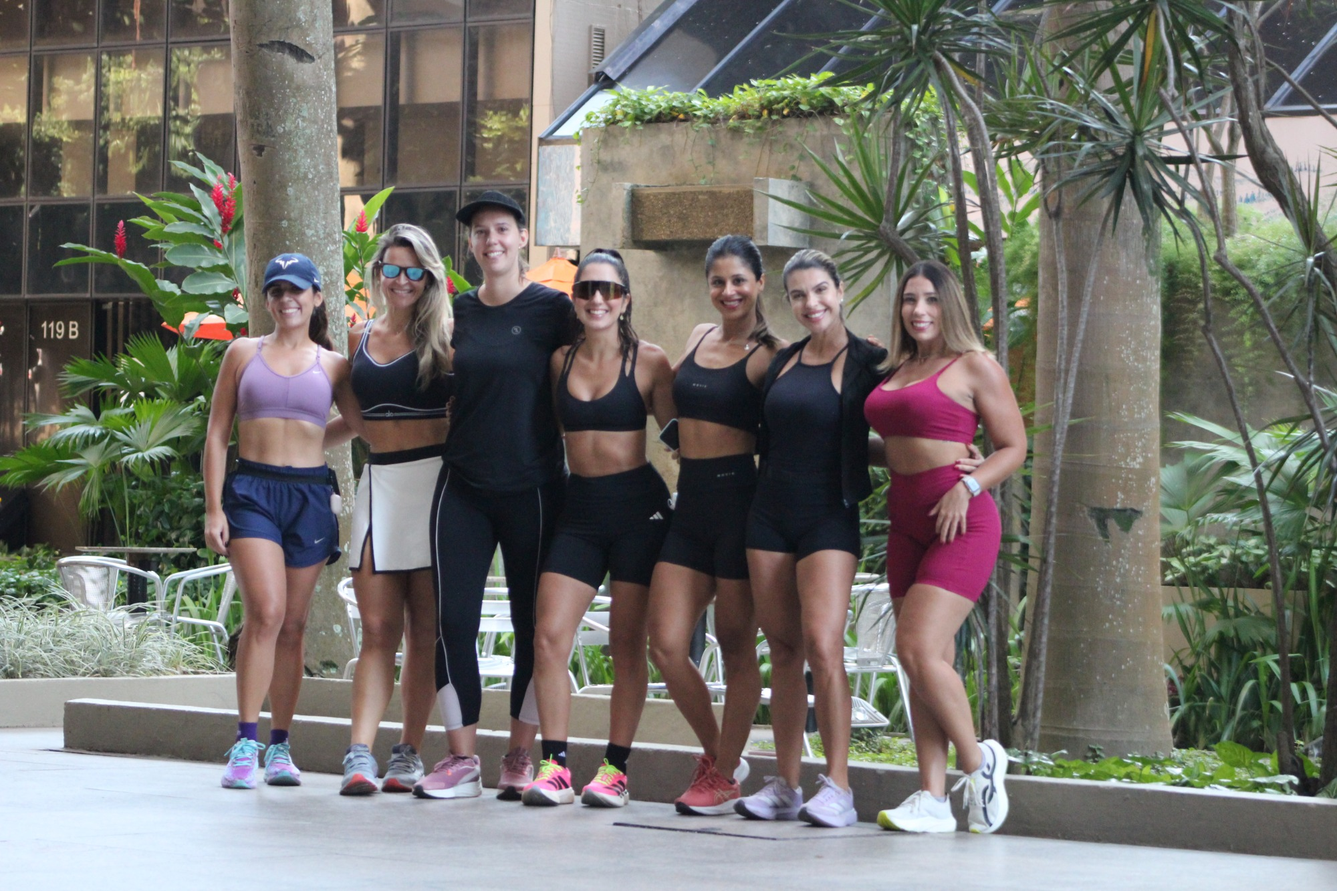
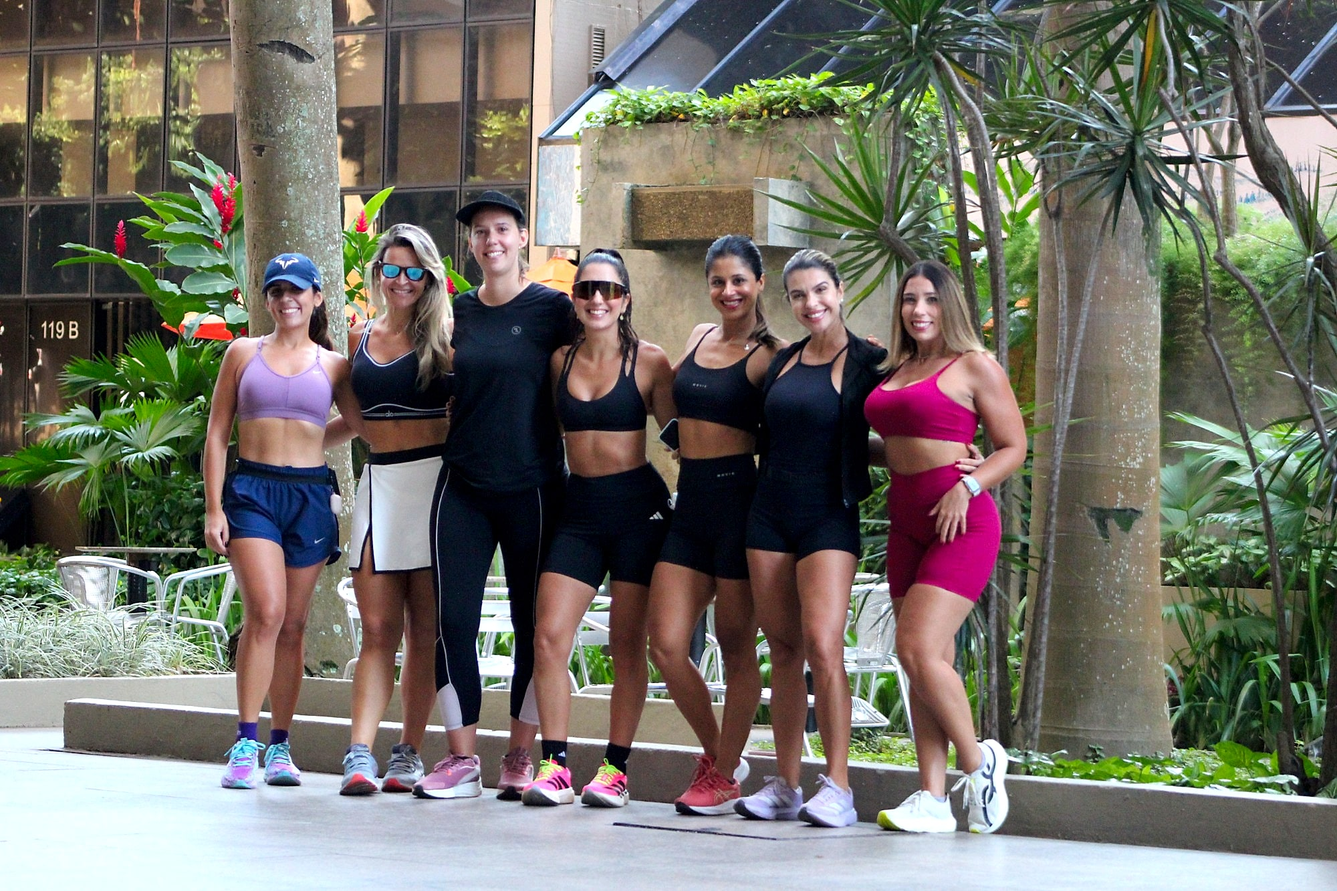
Realça cores e contraste da foto do hero

diff --git a/src/style.css b/src/style.css
@@ -1,4 +1,4 @@
-:root{font-family:'Montserrat',sans-serif;color:#1A1A1A;background:#F6F1E8;font-synthesis:none;text-rendering:optimizeLegibility;-webkit-font-smoothing:antialiased;--ink:#1A1A1A;--cream:#F6F1E8;--sage:#6B7A5E;--gold:#CBA86B;--olive:#6B7A5E;--line:#E6DED1;--serif:'Playfair Display',Georgia,serif}*{box-sizing:border-box}html{scroll-behavior:smooth;scroll-padding-top:90px}body{margin:0}a{color:inherit;text-decoration:none}button,input{font:inherit}.icon{display:block;width:20px;height:20px;flex:0 0 auto}.topbar{height:84px;padding:0 max(calc((100vw - 1240px)/2),6.1vw);display:flex;align-items:center;justify-content:space-between;border-bottom:1px solid #E6DED1;background:rgba(246,241,232,.96);position:sticky;top:0;z-index:5;backdrop-filter:blur(12px)}.brand{display:flex;align-items:center;gap:10px;font-size:21px;font-weight:500;letter-spacing:.14em;text-transform:uppercase}.brand i{font-family:var(--serif);font-weight:500;color:var(--sage)}.brand-mark{width:34px;height:34px;background:var(--sage);color:white;display:grid;place-items:center;border-radius:50%}.brand-mark .icon{width:21px}.desktop-nav{display:flex;gap:37px;font-size:12px;color:#69665f}.desktop-nav a:hover,.login-link:hover{color:var(--sage)}.top-actions{display:flex;align-items:center;gap:24px;font-size:12px}.login-link{color:#6c6962}.button{display:inline-flex;align-items:center;justify-content:center;gap:20px;border:0;padding:15px 21px;font-size:12px;font-weight:600;transition:transform .2s,background .2s;cursor:pointer}.button:hover{transform:translateY(-2px)}.button .icon{width:16px}.button-dark{background:var(--ink);color:white}.button-dark:hover{background:#454238}.button-small{padding:12px 15px;gap:12px}.menu-toggle{display:none;border:0;background:transparent}.hero{max-width:1240px;margin:auto;padding:64px 0 82px;display:grid;grid-template-columns:1fr 1fr;gap:5%;align-items:center;position:relative;min-height:600px}.hero-copy{padding-left:2px}.eyebrow,.section-kicker{font-size:9px;font-weight:700;letter-spacing:1.8px;color:#716e63;display:flex;align-items:center;gap:9px}.eyebrow-dot,.note-dot{width:7px;height:7px;border-radius:50%;background:var(--sage)}h1,h2,h3,p{margin-top:0}h1,h2,blockquote{font-family:var(--serif);font-weight:500;letter-spacing:-1.6px}h1{font-size:clamp(46px,4.8vw,60px);line-height:1.04;margin:26px 0 21px}h1 em,h2 em,blockquote em{font-weight:500;color:var(--sage)}.hero-lead{max-width:460px;color:#6a675f;font-size:17px;line-height:1.65;margin-bottom:25px}.hero-ctas{display:flex;gap:23px;align-items:center}.button-gold{color:var(--ink);background:var(--gold)}.button-gold:hover{background:#B8965A}.text-link{font-size:11px;color:#68645b}.text-link span{margin-left:8px;color:var(--sage)}.social-proof{margin-top:45px;display:flex;align-items:center;font-size:10px;gap:11px}.avatar-stack{display:flex;padding-left:2px}.avatar-stack span{width:27px;height:27px;border-radius:50%;border:2px solid var(--cream);margin-left:-5px;display:grid;place-items:center;color:#fff;background:#6B7A5E;font-size:9px}.avatar-stack span:nth-child(2){background:#6B7A5E}.avatar-stack span:nth-child(3){background:#CBA86B}.avatar-stack span:nth-child(4){background:#6E6A62}.social-proof strong,.social-proof small{display:block}.social-proof strong{font-size:10px}.social-proof small{font-size:9px;color:#8b877d;margin-top:3px}.proof-stars{color:#CBA86B;font-size:10px;letter-spacing:2px;margin-left:9px}.hero-visual{height:450px;position:relative}.hero-photo{position:absolute;inset:0 12px 12px 0;background:#d0c4b0 url('/images/eleva-hero-comunidade.jpg') center 42%/cover;clip-path:polygon(8% 0,100% 0,100% 85%,89% 100%,0 100%,0 12%);filter:saturate(.7)}.hero-visual:after{content:'';position:absolute;z-index:-1;inset:17px -1px -1px 16px;border:1px solid #d9d3c5;clip-path:polygon(8% 0,100% 0,100% 85%,89% 100%,0 100%,0 12%)}.photo-label{position:absolute;bottom:27px;left:-34px;background:var(--cream);padding:14px 18px;display:flex;align-items:center;gap:12px;box-shadow:0 8px 30px #30302412}.label-icon{width:34px;height:34px;display:grid;place-items:center;background:#E9E4D7;color:var(--sage);border-radius:50%}.label-icon .icon{width:17px}.photo-label strong,.photo-label small{display:block}.photo-label strong{font-family:var(--serif);font-size:13px;font-weight:600}.photo-label small{font-size:9px;color:#898579;margin-top:3px}.photo-note{position:absolute;right:-13px;top:24px;background:#F6F1E8;padding:10px 14px;display:flex;gap:8px;align-items:center;font-size:8px;letter-spacing:1px}.photo-note .note-dot{width:6px;height:6px}.hero-scribble{position:absolute;right:-31px;bottom:35px;color:var(--sage);font-size:39px}.hero-index{position:absolute;bottom:36px;left:2px;display:flex;align-items:center;gap:11px;font-size:9px;color:#8e8a80}.hero-index span:first-child{color:var(--sage);font-weight:700}.index-line{height:1px;width:58px;background:#d7d2c6}.ticker{min-height:58px;padding:12px 6%;background:var(--olive);color:white;display:flex;align-items:center;justify-content:center}.ticker-track{display:flex;align-items:center;justify-content:center;flex-wrap:wrap;column-gap:clamp(18px,4vw,48px);row-gap:10px;width:100%}.ticker-track span{font-size:9px;letter-spacing:1.5px;font-weight:600;display:flex;gap:clamp(18px,4vw,48px);align-items:center}.ticker-track b{font-size:13px;color:#CBA86B}.section{max-width:1120px;margin:auto;padding:105px 0}.intro{padding-bottom:92px}.section-kicker{color:var(--olive)}.section-kicker .icon{width:14px;height:14px;color:var(--sage)}.intro-grid{display:grid;grid-template-columns:1fr .7fr;gap:7%;align-items:end;margin-top:25px}.intro h2,.section-heading h2,.benefit-intro h2{font-size:clamp(37px,4.4vw,55px);line-height:1.12;margin:0}.intro-text{padding-bottom:5px}.intro-text p,.benefit-intro>p{font-size:12px;color:#747067;line-height:1.9;margin-bottom:15px}.underlined-link{font-size:10px;font-weight:600;border-bottom:1px solid #CBA86B;padding-bottom:8px;display:inline-flex;align-items:center;gap:16px}.underlined-link .icon{width:15px;color:var(--sage)}.values-row{display:grid;grid-template-columns:repeat(3,1fr);margin-top:60px;border-top:1px solid var(--line);border-bottom:1px solid var(--line)}.value{padding:23px 25px 20px 0;display:flex;gap:18px;border-right:1px solid var(--line)}.value:not(:first-child){padding-left:25px}.value:last-child{border:0}.value-number{font-family:var(--serif);font-size:12px;color:var(--sage);padding-top:3px}.value h3{font-family:var(--serif);font-size:17px;font-weight:600;margin:0 0 7px}.value p{color:#848076;font-size:10px;line-height:1.6;margin:0;max-width:210px}.experiences{padding-top:62px;padding-bottom:112px}.section-heading{display:flex;align-items:end;justify-content:space-between;margin-bottom:33px}.section-heading h2{font-size:43px;margin-top:15px}.desktop-only{margin-bottom:8px}.experience-grid{display:grid;grid-template-columns:1.17fr 1fr .85fr;gap:22px;align-items:start}.experience-card:nth-child(2){margin-top:44px}.experience-card:nth-child(3){margin-top:88px}.experience-image{height:270px;position:relative;overflow:hidden;background-size:cover;background-position:center}.experience-image:after{content:'';position:absolute;inset:0;background:linear-gradient(180deg,#14140b33,transparent 30%,transparent 75%,#15150e28)}.image-tag,.image-number{position:absolute;z-index:1;color:white;font-size:8px;letter-spacing:1.1px}.image-tag{top:17px;left:17px}.image-number{right:17px;bottom:16px;font-family:var(--serif);font-size:16px}.experience-info{display:flex;align-items:center;justify-content:space-between;padding:16px 0 0}.experience-info h3{font-family:var(--serif);font-size:18px;font-weight:600;margin-bottom:5px}.experience-info p{font-size:9px;color:#7c786f;margin:0}.experience-info>.icon{width:17px;color:var(--sage);margin-left:10px}.mobile-only{display:none}.join-banner{min-height:390px;background:var(--olive);color:white;padding:68px max(calc((100vw - 1120px)/2),8vw);display:flex;align-items:center;justify-content:space-between;position:relative;overflow:hidden}.join-banner:before,.join-banner:after{content:'';position:absolute;border:1px solid #ffffff1c;border-radius:50%;width:440px;height:440px;left:-255px;top:-250px}.join-banner:after{width:590px;height:590px;left:-330px;top:-325px}.banner-shape{position:absolute;left:6%;bottom:-75px;color:#ffffff0e;font-size:330px}.banner-content,.banner-aside{position:relative;z-index:1}.light-kicker{color:#e0dfd1}.light-kicker .icon{color:#CBA86B}.banner-content h2{font-size:54px;line-height:1.07;margin:19px 0 13px}.banner-content h2 em{color:#CBA86B}.banner-content>p{font-size:11px;color:#e6e4d9;margin-bottom:22px}.button-light{background:#F6F1E8;color:#29281f}.banner-content>small{display:block;font-size:8px;color:#e2e1d8;margin-top:12px}.banner-aside{display:flex;flex-direction:column;gap:22px;padding-right:5%}.banner-stat strong{font-family:var(--serif);font-size:43px;font-weight:500;line-height:1}.banner-stat strong span{font-size:24px;color:#CBA86B}.banner-stat p{font-size:9px;line-height:1.7;color:#e1e0d6;margin:7px 0 0}.banner-divider{width:38px;height:1px;background:#ffffff5c}.benefits{padding-top:108px;padding-bottom:108px;display:grid;grid-template-columns:.8fr 1fr;gap:13%;align-items:start}.benefit-intro h2{font-size:46px;margin:20px 0 15px}.benefit-intro>p{max-width:285px;margin-bottom:20px}.benefit-list{border-top:1px solid var(--line)}.benefit-item{display:grid;grid-template-columns:42px 1fr 18px;gap:16px;align-items:center;padding:17px 0;border-bottom:1px solid var(--line)}.benefit-icon{width:37px;height:37px;background:#E9E4D7;color:var(--olive);display:grid;place-items:center;border-radius:50%}.benefit-icon .icon{width:18px;height:18px}.benefit-item h3{font-family:var(--serif);font-size:15px;font-weight:600;margin:0 0 4px}.benefit-item p{font-size:9px;color:#817d74;margin:0}.benefit-item> .icon{width:14px;color:#b5b0a4;transition:transform .2s}.benefit-item:hover>.icon{transform:translateX(3px);color:var(--sage)}.closing-quote{background:#F6F1E8;padding:72px 20px 67px;text-align:center;position:relative;overflow:hidden}.quote-mark{font-family:var(--serif);font-size:67px;height:45px;color:var(--sage);line-height:1}.closing-quote blockquote{font-size:37px;line-height:1.2;margin:7px 0 20px}.quote-byline{font-size:8px;letter-spacing:1.6px;color:#817d70;display:flex;align-items:center;justify-content:center;gap:10px}.quote-line{width:28px;height:1px;background:var(--sage)}.quote-flower{position:absolute;right:13%;bottom:-41px;color:#e0dbcf;font-size:150px}.footer{min-height:94px;padding:20px max(calc((100vw - 1120px)/2),6vw);display:flex;align-items:center;justify-content:space-between;color:#868176}.footer-brand{font-size:17px;color:var(--ink)}.footer-brand .brand-mark{width:29px;height:29px}.footer-brand .brand-mark .icon{width:18px}.footer>span{font-size:9px}.footer>span b{color:var(--sage)}.instagram{display:flex;align-items:center;gap:7px;font-size:9px}.instagram .icon{width:15px}.footer>small{font-size:8px}.modal-backdrop{position:fixed;inset:0;background:#24231f9c;z-index:20;display:grid;place-items:center;padding:20px;opacity:0;visibility:hidden;transition:opacity .25s,visibility .25s}.modal-backdrop.is-open{opacity:1;visibility:visible}.join-modal{width:min(100%,490px);background:var(--cream);padding:47px 48px 43px;position:relative;transform:translateY(15px);transition:transform .25s}.is-open .join-modal{transform:translateY(0)}.modal-close{position:absolute;right:18px;top:18px;border:0;background:transparent;color:#777267;cursor:pointer}.modal-close .icon{width:18px}.modal-flower{position:absolute;right:42px;top:54px;color:#e9e4d7;font-size:46px}.join-modal h2{font-family:var(--serif);font-size:37px;line-height:1.1;font-weight:500;margin:19px 0 12px;max-width:360px}.join-modal h2 em{color:var(--sage)}.join-modal>p{font-size:11px;color:#79756c;line-height:1.7;max-width:350px;margin-bottom:27px}.join-form label{font-size:10px;font-weight:600;display:block;margin-bottom:8px}.input-row{display:flex}.input-row input{min-width:0;flex:1;border:1px solid #dcd8ce;background:#fffefa;padding:13px 12px;font-size:11px;outline-color:var(--sage)}.input-row .button{gap:9px;padding:12px;font-size:10px}.join-form>small{display:block;margin-top:10px;font-size:9px;color:#99948a}.toast{position:fixed;z-index:30;bottom:25px;left:50%;transform:translate(-50%,20px);background:var(--ink);color:white;padding:15px 22px;font-size:12px;box-shadow:0 8px 28px #0002;opacity:0;transition:.3s;pointer-events:none}.toast.visible{opacity:1;transform:translate(-50%,0)}.modal-open{overflow:hidden}
+:root{font-family:'Montserrat',sans-serif;color:#1A1A1A;background:#F6F1E8;font-synthesis:none;text-rendering:optimizeLegibility;-webkit-font-smoothing:antialiased;--ink:#1A1A1A;--cream:#F6F1E8;--sage:#6B7A5E;--gold:#CBA86B;--olive:#6B7A5E;--line:#E6DED1;--serif:'Playfair Display',Georgia,serif}*{box-sizing:border-box}html{scroll-behavior:smooth;scroll-padding-top:90px}body{margin:0}a{color:inherit;text-decoration:none}button,input{font:inherit}.icon{display:block;width:20px;height:20px;flex:0 0 auto}.topbar{height:84px;padding:0 max(calc((100vw - 1240px)/2),6.1vw);display:flex;align-items:center;justify-content:space-between;border-bottom:1px solid #E6DED1;background:rgba(246,241,232,.96);position:sticky;top:0;z-index:5;backdrop-filter:blur(12px)}.brand{display:flex;align-items:center;gap:10px;font-size:21px;font-weight:500;letter-spacing:.14em;text-transform:uppercase}.brand i{font-family:var(--serif);font-weight:500;color:var(--sage)}.brand-mark{width:34px;height:34px;background:var(--sage);color:white;display:grid;place-items:center;border-radius:50%}.brand-mark .icon{width:21px}.desktop-nav{display:flex;gap:37px;font-size:12px;color:#69665f}.desktop-nav a:hover,.login-link:hover{color:var(--sage)}.top-actions{display:flex;align-items:center;gap:24px;font-size:12px}.login-link{color:#6c6962}.button{display:inline-flex;align-items:center;justify-content:center;gap:20px;border:0;padding:15px 21px;font-size:12px;font-weight:600;transition:transform .2s,background .2s;cursor:pointer}.button:hover{transform:translateY(-2px)}.button .icon{width:16px}.button-dark{background:var(--ink);color:white}.button-dark:hover{background:#454238}.button-small{padding:12px 15px;gap:12px}.menu-toggle{display:none;border:0;background:transparent}.hero{max-width:1240px;margin:auto;padding:64px 0 82px;display:grid;grid-template-columns:1fr 1fr;gap:5%;align-items:center;position:relative;min-height:600px}.hero-copy{padding-left:2px}.eyebrow,.section-kicker{font-size:9px;font-weight:700;letter-spacing:1.8px;color:#716e63;display:flex;align-items:center;gap:9px}.eyebrow-dot,.note-dot{width:7px;height:7px;border-radius:50%;background:var(--sage)}h1,h2,h3,p{margin-top:0}h1,h2,blockquote{font-family:var(--serif);font-weight:500;letter-spacing:-1.6px}h1{font-size:clamp(46px,4.8vw,60px);line-height:1.04;margin:26px 0 21px}h1 em,h2 em,blockquote em{font-weight:500;color:var(--sage)}.hero-lead{max-width:460px;color:#6a675f;font-size:17px;line-height:1.65;margin-bottom:25px}.hero-ctas{display:flex;gap:23px;align-items:center}.button-gold{color:var(--ink);background:var(--gold)}.button-gold:hover{background:#B8965A}.text-link{font-size:11px;color:#68645b}.text-link span{margin-left:8px;color:var(--sage)}.social-proof{margin-top:45px;display:flex;align-items:center;font-size:10px;gap:11px}.avatar-stack{display:flex;padding-left:2px}.avatar-stack span{width:27px;height:27px;border-radius:50%;border:2px solid var(--cream);margin-left:-5px;display:grid;place-items:center;color:#fff;background:#6B7A5E;font-size:9px}.avatar-stack span:nth-child(2){background:#6B7A5E}.avatar-stack span:nth-child(3){background:#CBA86B}.avatar-stack span:nth-child(4){background:#6E6A62}.social-proof strong,.social-proof small{display:block}.social-proof strong{font-size:10px}.social-proof small{font-size:9px;color:#8b877d;margin-top:3px}.proof-stars{color:#CBA86B;font-size:10px;letter-spacing:2px;margin-left:9px}.hero-visual{height:450px;position:relative}.hero-photo{position:absolute;inset:0 12px 12px 0;background:#d0c4b0 url('/images/eleva-hero-comunidade.jpg') center 42%/cover;clip-path:polygon(8% 0,100% 0,100% 85%,89% 100%,0 100%,0 12%)}.hero-visual:after{content:'';position:absolute;z-index:-1;inset:17px -1px -1px 16px;border:1px solid #d9d3c5;clip-path:polygon(8% 0,100% 0,100% 85%,89% 100%,0 100%,0 12%)}.photo-label{position:absolute;bottom:27px;left:-34px;background:var(--cream);padding:14px 18px;display:flex;align-items:center;gap:12px;box-shadow:0 8px 30px #30302412}.label-icon{width:34px;height:34px;display:grid;place-items:center;background:#E9E4D7;color:var(--sage);border-radius:50%}.label-icon .icon{width:17px}.photo-label strong,.photo-label small{display:block}.photo-label strong{font-family:var(--serif);font-size:13px;font-weight:600}.photo-label small{font-size:9px;color:#898579;margin-top:3px}.photo-note{position:absolute;right:-13px;top:24px;background:#F6F1E8;padding:10px 14px;display:flex;gap:8px;align-items:center;font-size:8px;letter-spacing:1px}.photo-note .note-dot{width:6px;height:6px}.hero-scribble{position:absolute;right:-31px;bottom:35px;color:var(--sage);font-size:39px}.hero-index{position:absolute;bottom:36px;left:2px;display:flex;align-items:center;gap:11px;font-size:9px;color:#8e8a80}.hero-index span:first-child{color:var(--sage);font-weight:700}.index-line{height:1px;width:58px;background:#d7d2c6}.ticker{min-height:58px;padding:12px 6%;background:var(--olive);color:white;display:flex;align-items:center;justify-content:center}.ticker-track{display:flex;align-items:center;justify-content:center;flex-wrap:wrap;column-gap:clamp(18px,4vw,48px);row-gap:10px;width:100%}.ticker-track span{font-size:9px;letter-spacing:1.5px;font-weight:600;display:flex;gap:clamp(18px,4vw,48px);align-items:center}.ticker-track b{font-size:13px;color:#CBA86B}.section{max-width:1120px;margin:auto;padding:105px 0}.intro{padding-bottom:92px}.section-kicker{color:var(--olive)}.section-kicker .icon{width:14px;height:14px;color:var(--sage)}.intro-grid{display:grid;grid-template-columns:1fr .7fr;gap:7%;align-items:end;margin-top:25px}.intro h2,.section-heading h2,.benefit-intro h2{font-size:clamp(37px,4.4vw,55px);line-height:1.12;margin:0}.intro-text{padding-bottom:5px}.intro-text p,.benefit-intro>p{font-size:12px;color:#747067;line-height:1.9;margin-bottom:15px}.underlined-link{font-size:10px;font-weight:600;border-bottom:1px solid #CBA86B;padding-bottom:8px;display:inline-flex;align-items:center;gap:16px}.underlined-link .icon{width:15px;color:var(--sage)}.values-row{display:grid;grid-template-columns:repeat(3,1fr);margin-top:60px;border-top:1px solid var(--line);border-bottom:1px solid var(--line)}.value{padding:23px 25px 20px 0;display:flex;gap:18px;border-right:1px solid var(--line)}.value:not(:first-child){padding-left:25px}.value:last-child{border:0}.value-number{font-family:var(--serif);font-size:12px;color:var(--sage);padding-top:3px}.value h3{font-family:var(--serif);font-size:17px;font-weight:600;margin:0 0 7px}.value p{color:#848076;font-size:10px;line-height:1.6;margin:0;max-width:210px}.experiences{padding-top:62px;padding-bottom:112px}.section-heading{display:flex;align-items:end;justify-content:space-between;margin-bottom:33px}.section-heading h2{font-size:43px;margin-top:15px}.desktop-only{margin-bottom:8px}.experience-grid{display:grid;grid-template-columns:1.17fr 1fr .85fr;gap:22px;align-items:start}.experience-card:nth-child(2){margin-top:44px}.experience-card:nth-child(3){margin-top:88px}.experience-image{height:270px;position:relative;overflow:hidden;background-size:cover;background-position:center}.experience-image:after{content:'';position:absolute;inset:0;background:linear-gradient(180deg,#14140b33,transparent 30%,transparent 75%,#15150e28)}.image-tag,.image-number{position:absolute;z-index:1;color:white;font-size:8px;letter-spacing:1.1px}.image-tag{top:17px;left:17px}.image-number{right:17px;bottom:16px;font-family:var(--serif);font-size:16px}.experience-info{display:flex;align-items:center;justify-content:space-between;padding:16px 0 0}.experience-info h3{font-family:var(--serif);font-size:18px;font-weight:600;margin-bottom:5px}.experience-info p{font-size:9px;color:#7c786f;margin:0}.experience-info>.icon{width:17px;color:var(--sage);margin-left:10px}.mobile-only{display:none}.join-banner{min-height:390px;background:var(--olive);color:white;padding:68px max(calc((100vw - 1120px)/2),8vw);display:flex;align-items:center;justify-content:space-between;position:relative;overflow:hidden}.join-banner:before,.join-banner:after{content:'';position:absolute;border:1px solid #ffffff1c;border-radius:50%;width:440px;height:440px;left:-255px;top:-250px}.join-banner:after{width:590px;height:590px;left:-330px;top:-325px}.banner-shape{position:absolute;left:6%;bottom:-75px;color:#ffffff0e;font-size:330px}.banner-content,.banner-aside{position:relative;z-index:1}.light-kicker{color:#e0dfd1}.light-kicker .icon{color:#CBA86B}.banner-content h2{font-size:54px;line-height:1.07;margin:19px 0 13px}.banner-content h2 em{color:#CBA86B}.banner-content>p{font-size:11px;color:#e6e4d9;margin-bottom:22px}.button-light{background:#F6F1E8;color:#29281f}.banner-content>small{display:block;font-size:8px;color:#e2e1d8;margin-top:12px}.banner-aside{display:flex;flex-direction:column;gap:22px;padding-right:5%}.banner-stat strong{font-family:var(--serif);font-size:43px;font-weight:500;line-height:1}.banner-stat strong span{font-size:24px;color:#CBA86B}.banner-stat p{font-size:9px;line-height:1.7;color:#e1e0d6;margin:7px 0 0}.banner-divider{width:38px;height:1px;background:#ffffff5c}.benefits{padding-top:108px;padding-bottom:108px;display:grid;grid-template-columns:.8fr 1fr;gap:13%;align-items:start}.benefit-intro h2{font-size:46px;margin:20px 0 15px}.benefit-intro>p{max-width:285px;margin-bottom:20px}.benefit-list{border-top:1px solid var(--line)}.benefit-item{display:grid;grid-template-columns:42px 1fr 18px;gap:16px;align-items:center;padding:17px 0;border-bottom:1px solid var(--line)}.benefit-icon{width:37px;height:37px;background:#E9E4D7;color:var(--olive);display:grid;place-items:center;border-radius:50%}.benefit-icon .icon{width:18px;height:18px}.benefit-item h3{font-family:var(--serif);font-size:15px;font-weight:600;margin:0 0 4px}.benefit-item p{font-size:9px;color:#817d74;margin:0}.benefit-item> .icon{width:14px;color:#b5b0a4;transition:transform .2s}.benefit-item:hover>.icon{transform:translateX(3px);color:var(--sage)}.closing-quote{background:#F6F1E8;padding:72px 20px 67px;text-align:center;position:relative;overflow:hidden}.quote-mark{font-family:var(--serif);font-size:67px;height:45px;color:var(--sage);line-height:1}.closing-quote blockquote{font-size:37px;line-height:1.2;margin:7px 0 20px}.quote-byline{font-size:8px;letter-spacing:1.6px;color:#817d70;display:flex;align-items:center;justify-content:center;gap:10px}.quote-line{width:28px;height:1px;background:var(--sage)}.quote-flower{position:absolute;right:13%;bottom:-41px;color:#e0dbcf;font-size:150px}.footer{min-height:94px;padding:20px max(calc((100vw - 1120px)/2),6vw);display:flex;align-items:center;justify-content:space-between;color:#868176}.footer-brand{font-size:17px;color:var(--ink)}.footer-brand .brand-mark{width:29px;height:29px}.footer-brand .brand-mark .icon{width:18px}.footer>span{font-size:9px}.footer>span b{color:var(--sage)}.instagram{display:flex;align-items:center;gap:7px;font-size:9px}.instagram .icon{width:15px}.footer>small{font-size:8px}.modal-backdrop{position:fixed;inset:0;background:#24231f9c;z-index:20;display:grid;place-items:center;padding:20px;opacity:0;visibility:hidden;transition:opacity .25s,visibility .25s}.modal-backdrop.is-open{opacity:1;visibility:visible}.join-modal{width:min(100%,490px);background:var(--cream);padding:47px 48px 43px;position:relative;transform:translateY(15px);transition:transform .25s}.is-open .join-modal{transform:translateY(0)}.modal-close{position:absolute;right:18px;top:18px;border:0;background:transparent;color:#777267;cursor:pointer}.modal-close .icon{width:18px}.modal-flower{position:absolute;right:42px;top:54px;color:#e9e4d7;font-size:46px}.join-modal h2{font-family:var(--serif);font-size:37px;line-height:1.1;font-weight:500;margin:19px 0 12px;max-width:360px}.join-modal h2 em{color:var(--sage)}.join-modal>p{font-size:11px;color:#79756c;line-height:1.7;max-width:350px;margin-bottom:27px}.join-form label{font-size:10px;font-weight:600;display:block;margin-bottom:8px}.input-row{display:flex}.input-row input{min-width:0;flex:1;border:1px solid #dcd8ce;background:#fffefa;padding:13px 12px;font-size:11px;outline-color:var(--sage)}.input-row .button{gap:9px;padding:12px;font-size:10px}.join-form>small{display:block;margin-top:10px;font-size:9px;color:#99948a}.toast{position:fixed;z-index:30;bottom:25px;left:50%;transform:translate(-50%,20px);background:var(--ink);color:white;padding:15px 22px;font-size:12px;box-shadow:0 8px 28px #0002;opacity:0;transition:.3s;pointer-events:none}.toast.visible{opacity:1;transform:translate(-50%,0)}.modal-open{overflow:hidden}
 @media(max-width:1320px){.hero{margin:0 7%;}.section{margin-left:8%;margin-right:8%}}@media(max-width:850px){.topbar{height:72px;padding:0 5%}.desktop-nav{gap:18px}.top-actions{gap:12px}.login-link{display:none}.hero{margin:0 6%;gap:4%;min-height:530px;padding:55px 0}.hero-visual{height:390px}.hero-lead{max-width:340px}.photo-label{left:-20px}.section{margin-left:7%;margin-right:7%;padding-top:80px;padding-bottom:80px}.experience-grid{gap:14px}.experience-image{height:220px}.experience-info h3{font-size:16px}.join-banner{padding-left:9%;padding-right:9%}.benefits{gap:8%}.benefit-intro h2{font-size:39px}.footer{padding:20px 5%}}@media(max-width:640px){.topbar{height:66px;padding:0 20px}.brand{font-size:18px}.brand-mark{width:31px;height:31px}.top-actions .button{padding:10px 12px;font-size:10px}.top-actions .button .icon{display:none}.menu-toggle{display:block;padding:7px}.menu-toggle .icon{width:21px}.desktop-nav{position:absolute;left:0;right:0;top:66px;background:var(--cream);padding:0 22px;display:flex;flex-direction:column;gap:0;max-height:0;overflow:hidden;transition:max-height .25s,padding .25s;border-bottom:1px solid transparent}.nav-open .desktop-nav{max-height:180px;padding:10px 22px;border-color:var(--line)}.desktop-nav a{padding:13px 0;border-bottom:1px solid var(--line)}.desktop-nav a:last-child{border:0}.hero{display:flex;flex-direction:column;align-items:stretch;padding:46px 0 66px;gap:36px;margin:0 7%}.hero-copy{padding-left:0}h1{font-size:68px;margin:22px 0 15px}.hero-lead{font-size:12px;max-width:400px}.hero-ctas{gap:16px}.button{padding:14px 16px;gap:11px}.hero-ctas .text-link{font-size:10px}.social-proof{margin-top:28px}.hero-visual{height:330px;margin:0 8px 0 14px}.photo-label{left:-20px;bottom:18px;padding:11px 13px}.photo-note{right:-9px;top:14px}.hero-scribble{right:-20px;bottom:15px}.hero-index{bottom:22px;left:7%;}.ticker{padding:14px 6%}.ticker-track{column-gap:16px;row-gap:9px}.ticker-track span{gap:16px;font-size:7px;letter-spacing:1px}.ticker-track b{font-size:10px}.section{margin-left:7%;margin-right:7%;padding-top:72px;padding-bottom:72px}.intro-grid{grid-template-columns:1fr;gap:20px;margin-top:20px}.intro h2,.section-heading h2{font-size:39px}.intro-text p{max-width:440px}.values-row{grid-template-columns:1fr;margin-top:37px}.value,.value:not(:first-child){padding:16px 0;border-right:0;border-bottom:1px solid var(--line)}.value:last-child{border-bottom:0}.value p{max-width:none}.experiences{padding-top:50px;padding-bottom:72px}.section-heading{display:block;margin-bottom:25px}.section-heading h2{margin-top:12px}.desktop-only{display:none}.experience-grid{display:flex;overflow-x:auto;gap:16px;margin-right:-7vw;padding-right:7vw;padding-bottom:7px;scroll-snap-type:x mandatory}.experience-card,.experience-card:nth-child(2),.experience-card:nth-child(3){margin:0;min-width:78vw;scroll-snap-align:start}.experience-image{height:260px}.experience-info h3{font-size:18px}.mobile-only{display:inline-flex;margin-top:18px}.join-banner{padding:58px 7%;min-height:0;display:block}.banner-content h2{font-size:46px}.banner-content>p{max-width:300px;line-height:1.7}.banner-aside{display:flex;flex-direction:row;gap:20px;align-items:center;margin-top:36px}.banner-divider{width:1px;height:43px}.banner-stat strong{font-size:33px}.banner-stat p{font-size:8px}.banner-shape{font-size:220px;left:auto;right:-50px;bottom:-55px}.benefits{display:block;padding-top:75px;padding-bottom:75px}.benefit-intro{margin-bottom:32px}.benefit-intro h2{font-size:40px}.benefit-intro>p{max-width:340px}.benefit-item{grid-template-columns:37px 1fr 14px;gap:12px;padding:15px 0}.benefit-item h3{font-size:14px}.benefit-item p{font-size:8px;line-height:1.5}.closing-quote{padding:60px 15px}.closing-quote blockquote{font-size:30px}.quote-flower{right:-10px;font-size:110px}.footer{padding:21px 7%;display:grid;grid-template-columns:1fr 1fr;gap:17px}.footer>span{grid-column:1/-1;grid-row:2}.footer>small{text-align:right}.footer-brand{font-size:16px}.join-modal{padding:42px 25px 32px}.join-modal h2{font-size:33px}.input-row{flex-direction:column;gap:8px}.input-row .button{min-height:44px}.modal-flower{right:26px;top:44px;font-size:37px}}@media(prefers-reduced-motion:reduce){*,*:before,*:after{scroll-behavior:auto!important;animation-duration:.01ms!important;transition-duration:.01ms!important}}
 
 /* Feature library */
